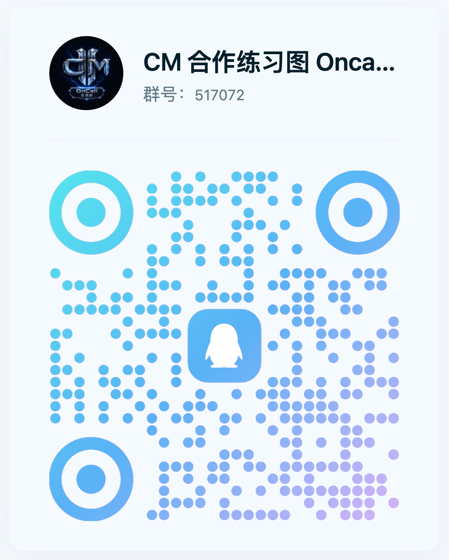
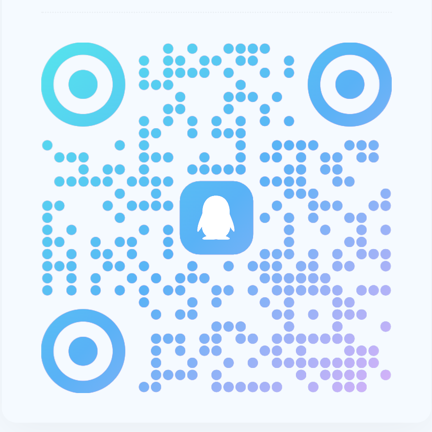
fix(jjb): 首页 QR 码拉伸修复 — 源图裁正方纯码 + object-fit contain
yb 实测反馈:第9格/大码浮层二维码被拉伸。根因=源图为 449×560 QQ 群名片截图
(顶部文字头),CSS 强制塞 44/200 正方容器致纵向压扁。裁掉文字头得 432×432
纯码(quiet zone 保留,群名/群号信息浮层文字已有),CSS 补 object-fit:contain
双保险。home 基线随之刷新(其余 4 屏基线回滚未动)。

Claude-Session: https://claude.ai/code/session_011VcJiJ5ECHZ6RJd43rHfLJ

diff --git a/web/src/styles/home-redesign.css b/web/src/styles/home-redesign.css
@@ -96,7 +96,7 @@
 .style-minimal .jjbx-aux { border-radius: 6px; }
 .jjbx-aux-no { font-family: var(--font-num); font-size: 20px; color: var(--muted); opacity: .65; min-width: 34px; }
 .jjbx-aux-qrs { display: flex; gap: 8px; flex: none; }
-.jjbx-aux-qrs img { width: 44px; height: 44px; background: #fff; padding: 3px; display: block; }
+.jjbx-aux-qrs img { width: 44px; height: 44px; background: #fff; padding: 3px; display: block; object-fit: contain; }
 .jjbx-aux-tx { display: flex; flex-direction: column; gap: 5px; line-height: 1.1; min-width: 0; }
 .jjbx-aux-t { font-size: 17px; font-weight: 700; letter-spacing: 1px; color: var(--ink); }
 .jjbx-aux-s { font-size: 11.5px; color: var(--muted); white-space: nowrap; }
@@ -116,7 +116,7 @@
 }
 .style-metal .jjbx-qrc { clip-path: polygon(0 0, calc(100% - 14px) 0, 100% 14px, 100% 100%, 14px 100%, 0 calc(100% - 14px)); border-color: var(--drop-edge); }
 .style-minimal .jjbx-qrc { border-radius: 10px; }
-.jjbx-qrc img { width: 200px; height: 200px; background: #fff; padding: 10px; display: block; margin-bottom: 8px; }
+.jjbx-qrc img { width: 200px; height: 200px; background: #fff; padding: 10px; display: block; margin-bottom: 8px; object-fit: contain; }
 .jjbx-qrc b { font-size: 14px; font-weight: 700; letter-spacing: 1px; color: var(--ink); }
 .jjbx-qrc i { font-style: normal; font-family: var(--font-num); font-size: 11px; letter-spacing: 1.5px; color: var(--muted); }
 .jjbx-qrh { font-size: 12.5px; letter-spacing: 2px; color: var(--muted); }
